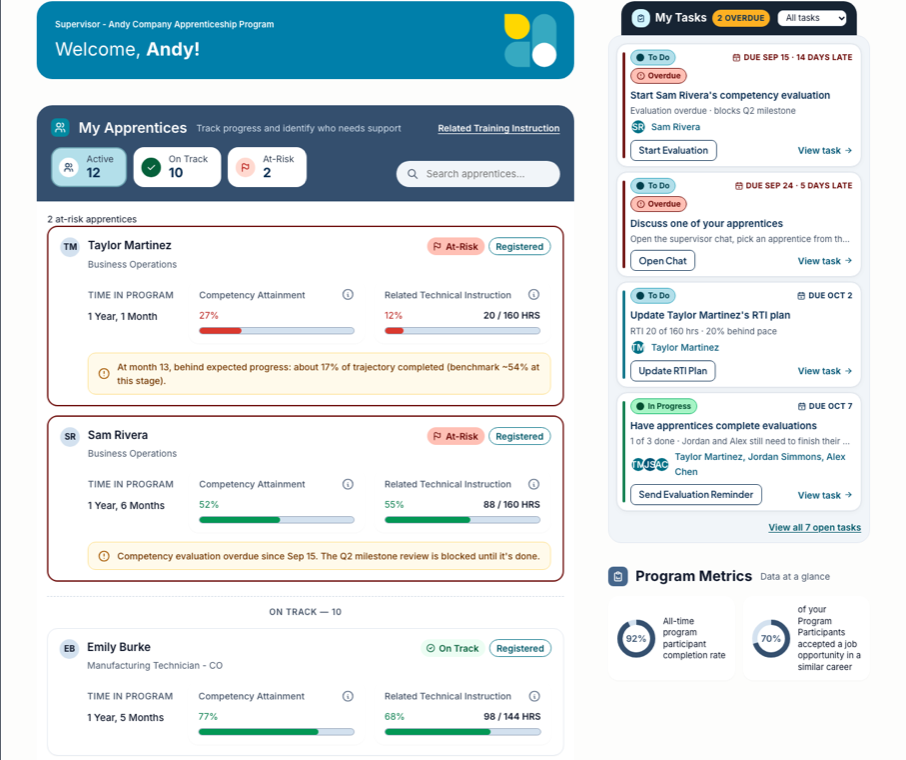
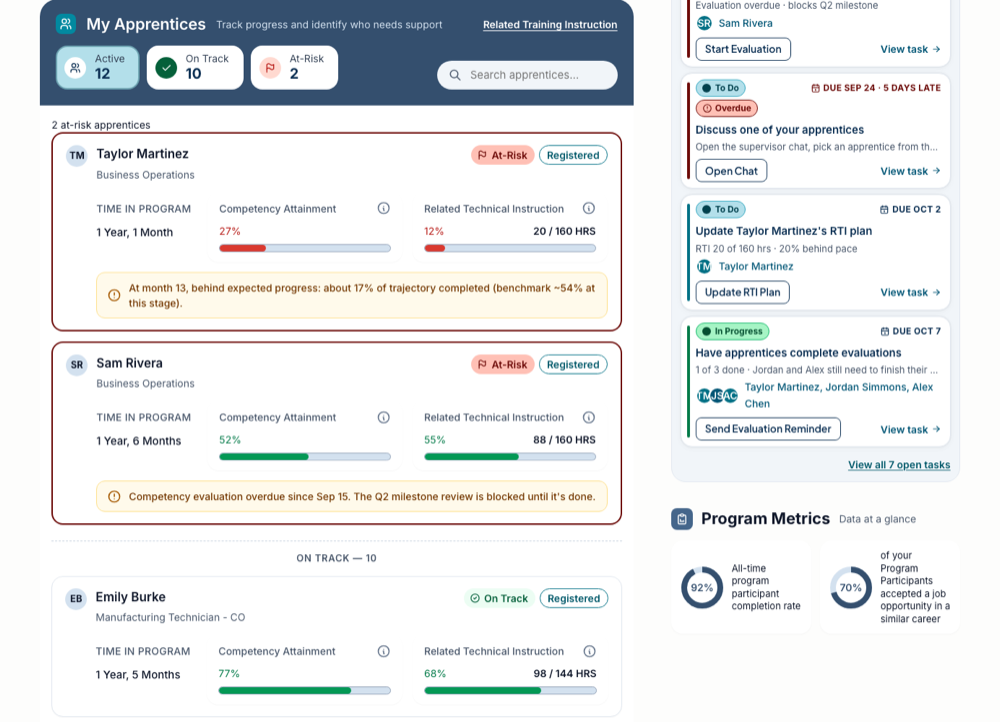
Strip remaining product branding from screenshots; add the CareerWise approval note

diff --git a/index.html b/index.html
@@ -48,8 +48,8 @@
       <section class="block" id="work" aria-labelledby="work-h">
         <h2 id="work-h">Work</h2>
         <p class="sub">An apprenticeship-management product at CareerWise USA, 2025 to now</p>
-        <!-- Andy: the product's name is left out until you decide whether it can be named publicly. -->
-        <p class="lede">A multi-role product: supervisors, apprentices, schools and employers all use it. Every piece below is a state system, a hierarchy decision and a feedback rule. Every screenshot is a prototype with fictional demo data, cropped to the component.</p>
+        <!-- Pending approval from CareerWise (Alexandra, Danicula): branding stripped per their request; swap in live screenshots once the product ships. The product is not named anywhere on the page or in the screenshots. -->
+        <p class="lede">A multi-role product: supervisors, apprentices, schools and employers all use it. Every piece below is a state system, a hierarchy decision and a feedback rule. Every screenshot is a prototype with fictional demo data, cropped to the component with the product branding removed.</p>
 
         <!-- 01 Job posting page -->
         <article class="study" id="job-posting" aria-labelledby="jp-h">
@@ -196,7 +196,7 @@
           </header>
           <div class="shots">
             <figure class="wide">
-              <img src="assets/dashboard-aligned.png" width="906" height="760" alt="Supervisor dashboard prototype: a welcome banner, a My Apprentices list with at-risk apprentices flagged first and progress bars, and a My Tasks rail on the right, all rendered on the product's real tokens." loading="lazy">
+              <img src="assets/dashboard-aligned.png" width="1000" height="722" alt="Supervisor dashboard prototype: a My Apprentices list with at-risk apprentices flagged first and progress bars, and a My Tasks rail on the right, all rendered on the product's real tokens." loading="lazy">
               <figcaption>The supervisor dashboard prototype after alignment: the same design, now running on the product's tokens and component CSS.</figcaption>
             </figure>
           </div>
